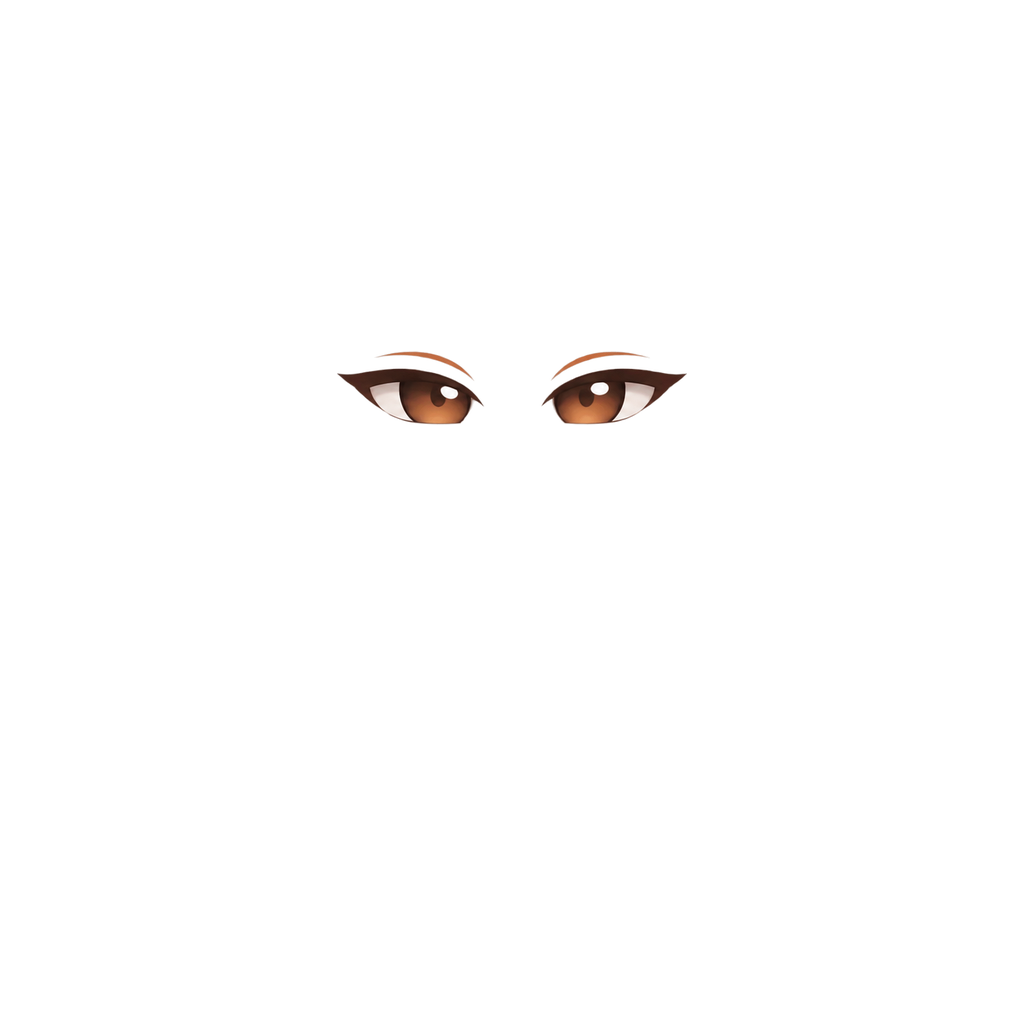
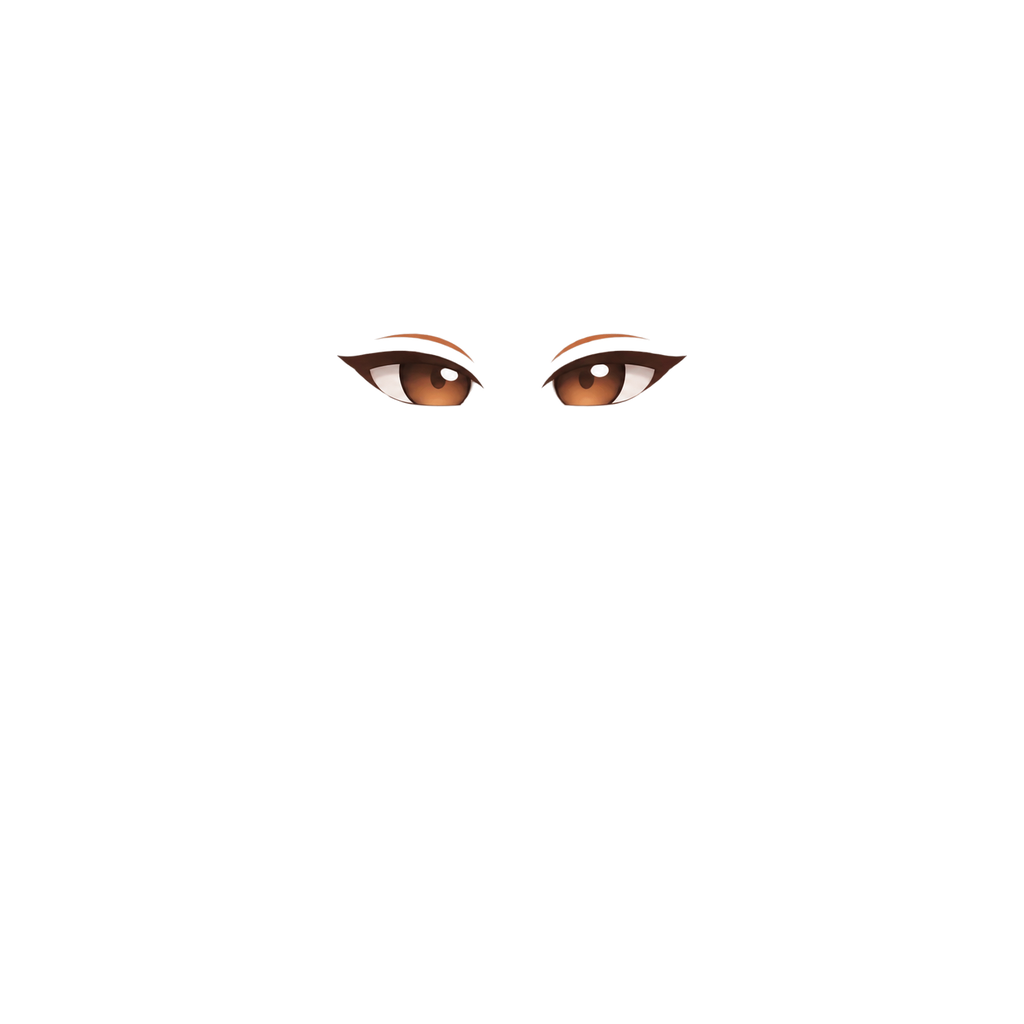
アバターの目：切れ長の位置を上に調整
Claude-Session: https://claude.ai/code/session_01NXuBE3U4UAebXMPco3J5UQ

Changed region(s): [[0.5312, 0.3125, 0.6875, 0.4375], [0.3125, 0.3125, 0.4688, 0.4375]]

diff --git a/app/lib/avatar/catalog.ts b/app/lib/avatar/catalog.ts
@@ -148,7 +148,7 @@ export const GEAR_READY = new Set<string>([]);
 export const HEAD_BEHIND_HAIR = new Set<string>([]);  // 後ろ配置は髪に埋もれたため不使用（前被りに戻した）
 
 /** 画像差し替え時にブラウザキャッシュを無効化するためのバージョン */
-export const ASSET_V = "47";
+export const ASSET_V = "48";
 
 /** 体の「後ろ」に描くアクセサリー（背中の羽など）。マントより前、髪・体より後ろ */
 export const ACCESSORY_BEHIND = new Set<string>(["paladin_wing"]);
